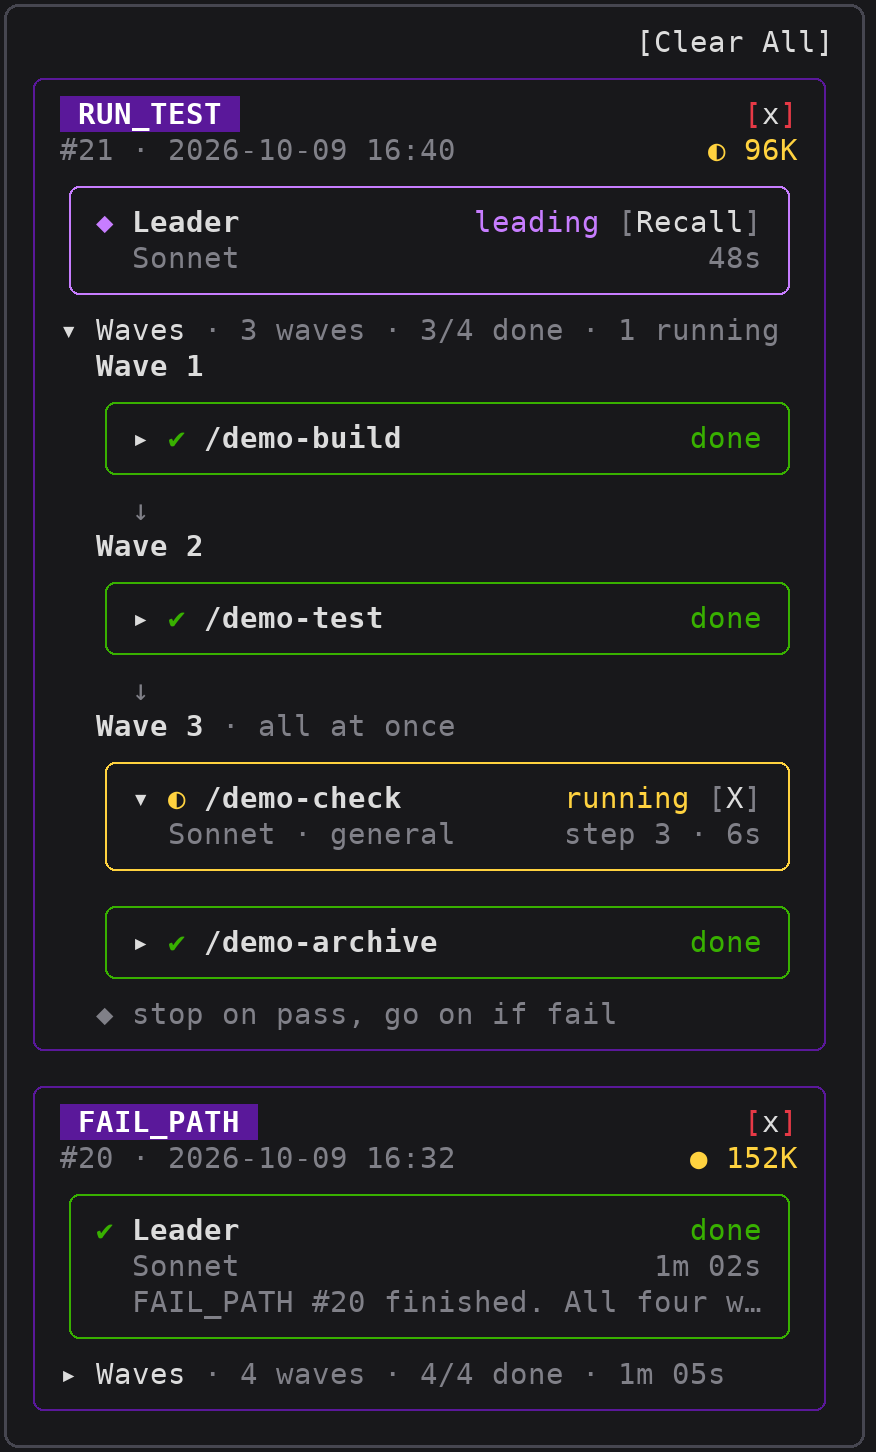
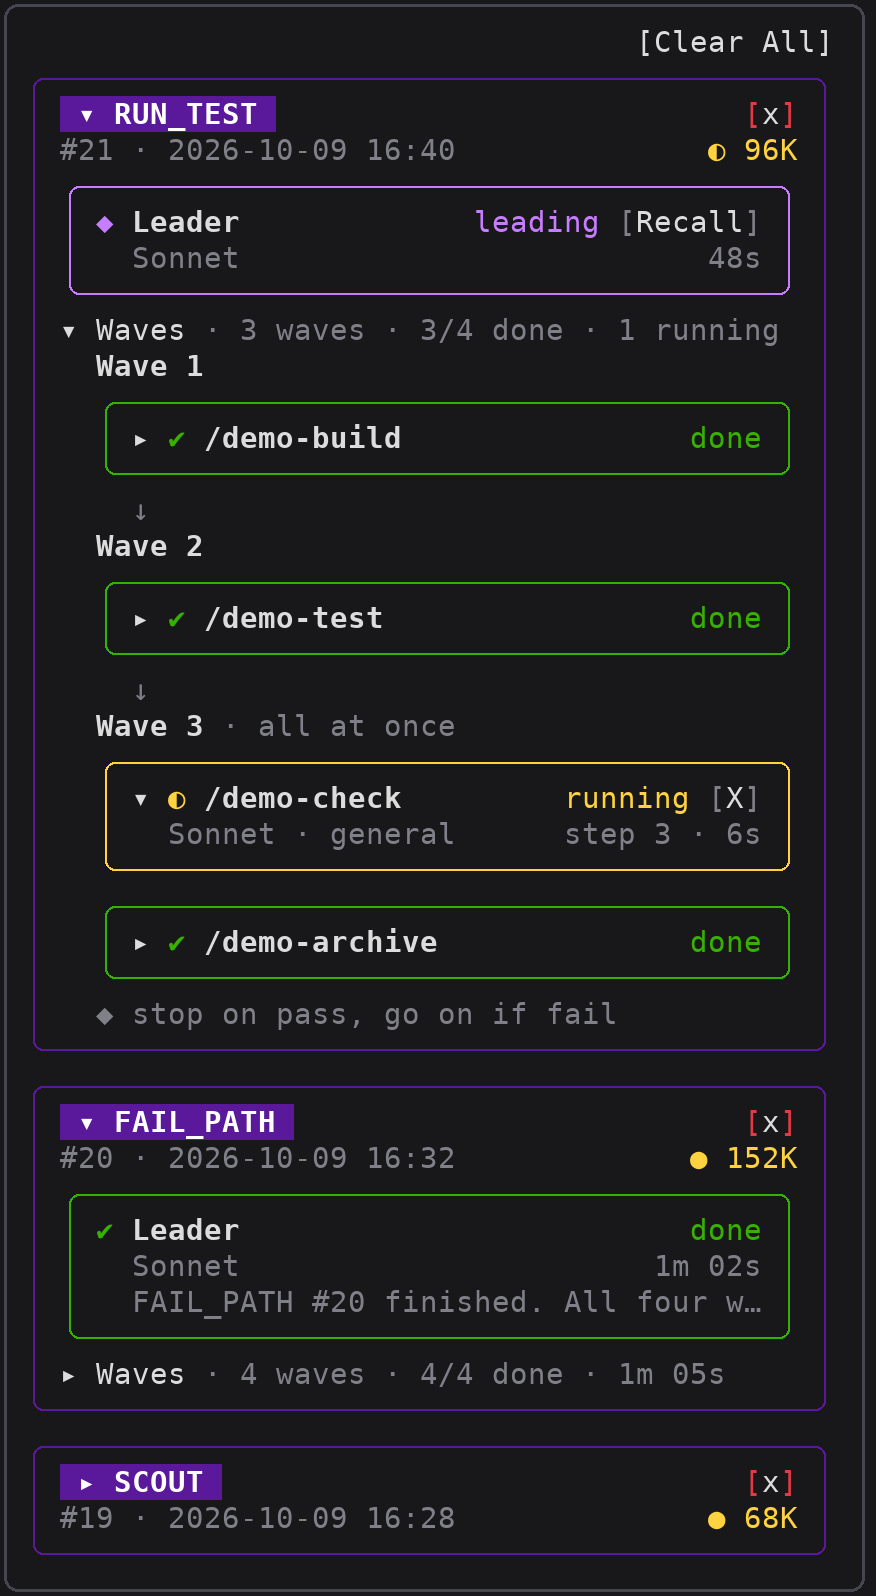
Dungeon: the combo's name folds a mission to its first two lines

diff --git a/hooks/register.tsx b/hooks/register.tsx
@@ -2651,6 +2651,9 @@ export const register: Register = on => {
       const ended = m.endedAt !== undefined
       const took = m.begunAt !== undefined && ended ? elapsed(m.endedAt! - m.begunAt) : ''
       const spent = tokensOf([m])
+      // The combo's name folds the mission to its first two lines, and opens it again.
+      const foldKey = `mission-${m.id}-fold`
+      const folded = open.includes(foldKey)
       const wavesKey = `mission-${m.id}-waves`
       const wavesOpen = open.includes(wavesKey)
       const steps = m.waves.flatMap(w => w.steps)
@@ -2675,7 +2678,13 @@ export const register: Register = on => {
               sent, how it stands, how long, and its subagents' tokens. */}
           <Box flexDirection="row" justifyContent="space-between">
             <Box flexDirection="row" backgroundColor={COMBO.banner} paddingX={1} flexShrink={1} minWidth={0}>
-              <Text bold color={COMBO.text} wrap="truncate-end">{m.combo}</Text>
+              <Button
+                key={foldKey}
+                label={`${folded ? '▸' : '▾'} ${m.combo}`}
+                plain
+                hover={{ scope: foldKey, color: COMBO.text, bold: true }}
+                onPress={() => update($, squadOpenAtom, l => (l.includes(foldKey) ? l.filter(k => k !== foldKey) : [...l, foldKey]))}
+              />
             </Box>
             <Box flexDirection="row" flexShrink={0}>
               <Text color={hex(STOP_RED)}>[</Text>
@@ -2692,11 +2701,11 @@ export const register: Register = on => {
             </Text>
           </Box>
           {/* The subagent leading it, and in the end its report. */}
-          {m.leader && runBlock(`mission-${m.id}-lead`, 'Leader', modelInfo(m.leader.model ?? '').name, '', m.leader, ended, inner, true, m.id)}
+          {!folded && m.leader && runBlock(`mission-${m.id}-lead`, 'Leader', modelInfo(m.leader.model ?? '').name, '', m.leader, ended, inner, true, m.id)}
           {/* Waves, closed to one line (how far its steps have got) until
               pressed open: each wave, its step cards and its condition, and
               the subagents no step names. */}
-          <Box flexDirection="row">
+          {!folded && (<Box flexDirection="row">
             <Button
               key={`mission-${m.id}-waves`}
               label={`${wavesOpen ? '▾' : '▸'} Waves`}
@@ -2704,8 +2713,8 @@ export const register: Register = on => {
               onPress={() => update($, squadOpenAtom, l => (l.includes(wavesKey) ? l.filter(k => k !== wavesKey) : [...l, wavesKey]))}
             />
             <Text dimColor wrap="truncate-end">{` · ${progress}`}</Text>
-          </Box>
-          {wavesOpen && (
+          </Box>)}
+          {!folded && wavesOpen && (
             <Box flexDirection="column" paddingLeft={2}>
               {m.waves.map((w, wi) => (
                 <Box key={`mission-${m.id}-w${w.n}`} flexDirection="column">

diff --git a/hooks/squad.test.ts b/hooks/squad.test.ts
@@ -294,11 +294,19 @@ test('Dungeon: a pressed combo sends its leader, opens its tab and follows each 
 
   const squad = await $.ui.mount({ ...SQUAD, surface: 'terminal' })
   const text = async (t: string | RegExp) => squad.find({ type: 'Text', text: t })
-  expect(await text('Run-Test')).toBeDefined()
+  expect((await squad.find({ key: 'mission-1-fold' }))?.text).toBe('▾ Run-Test')
   expect(await text('#1 · 1970-01-01 00:00')).toBeDefined()
   expect(await text('0')).toBeDefined()
   expect(await text('Leader')).toBeDefined()
   expect(await text('  Sonnet')).toBeDefined()
+  // The combo's name folds the mission to its first two lines, and opens it again.
+  await squad.press({ key: 'mission-1-fold' })
+  expect((await squad.find({ key: 'mission-1-fold' }))?.text).toBe('▸ Run-Test')
+  expect(await text('#1 · 1970-01-01 00:00')).toBeDefined()
+  expect(await text('Leader')).toBeUndefined()
+  expect(await squad.find({ key: 'mission-1-waves' })).toBeUndefined()
+  await squad.press({ key: 'mission-1-fold' })
+  expect(await text('Leader')).toBeDefined()
   // The waves are closed to how far their steps have got, until pressed open.
   expect(await text(' · 2 waves · 0/3 done')).toBeDefined()
   expect(await text('/demo-build')).toBeUndefined()
@@ -373,7 +381,7 @@ test('Dungeon: a pressed combo sends its leader, opens its tab and follows each 
   expect(await squad.find({ key: 'squad-clear' })).toBeDefined()
   expect(await squad.find({ key: 'mission-x-1' })).toBeDefined()
   await squad.press({ key: 'mission-x-1' })
-  expect(await text('Run-Test')).toBeUndefined()
+  expect(await squad.find({ key: 'mission-1-fold' })).toBeUndefined()
   expect(await text(/No Party Combo sent yet/)).toBeDefined()
   expect(await squad.find({ key: 'squad-clear' })).toBeUndefined()
   await squad.unmount()

diff --git a/tools/pictures.py b/tools/pictures.py
@@ -298,7 +298,7 @@ def card(fold, mark, color, title, word, extra=(), second=None):
 def dungeon_rows():
     """Dungeon's tab, as wide as DUNGEON_W: a mission running with its waves
     open, and one done, closed to a glance."""
-    banner = lambda name: [run(f' {name} ', (255, 255, 255), True, PURPLE)]
+    banner = lambda name, fold='▾': [run(f' {fold} {name} ', (255, 255, 255), True, PURPLE)]
     x = [run('[', STOP), run('x'), run(']', STOP)]
     btn = lambda label: [run(' [', DIM), run(label), run(']', DIM)]
     running = ('frame', [
@@ -331,7 +331,11 @@ def dungeon_rows():
         ], GREEN),
         [run('▸ Waves'), run(' · 4 waves · 4/4 done · 1m 05s', DIM)],
     ], PURPLE)
-    return [(('split', [], [run('[Clear All]')]), None), (running, None), (done, None)]
+    folded = ('frame', [
+        ('split', banner('SCOUT', '▸'), x),
+        ('split', [run('#19 · 2026-10-09 16:28', DIM)], [run('● ', GOLD, True), run('68K', GOLD)]),
+    ], PURPLE)
+    return [(('split', [], [run('[Clear All]')]), None), (running, None), (done, None), (folded, None)]
 
 
 DUNGEON_W = 46  # Dungeon is a tab of its own, wider than the pane

diff --git a/README.md b/README.md
@@ -110,13 +110,13 @@ A saved combo shows in the Skill Box under **Party Combo**; pressed, it runs wit
 
 ## Dungeon
 
-<img src="docs/dungeon.png" width="420" alt="Dungeon: [Clear All] at the top; RUN_TEST #21 running, a half-turned gold coin and 96K, its Leader card leading with [Recall], its waves open: /demo-build and /demo-test done, /demo-check running with [X] and opened to Sonnet · general, /demo-archive done, then its condition; below it FAIL_PATH #20 done, a gold coin and 152K, its Leader card done with its report, its waves closed to 4/4 done · 1m 05s">
+<img src="docs/dungeon.png" width="420" alt="Dungeon: [Clear All] at the top; RUN_TEST #21 running, a half-turned gold coin and 96K, its Leader card leading with [Recall], its waves open: /demo-build and /demo-test done, /demo-check running with [X] and opened to Sonnet · general, /demo-archive done, then its condition; below it FAIL_PATH #20 done, a gold coin and 152K, its Leader card done with its report, its waves closed to 4/4 done · 1m 05s; last SCOUT #19 folded to its name, number, time and 68K">
 
 A tab of its own that opens when a Party Combo is pressed, and follows each press as a mission until its leader has led it to the end. At a glance a mission is its line, its leader's card and one line for its waves; open the waves, then a step's card, for the detail. Each press gets a number, `#1`, `#2`, …; its prompt and each step's tag carry it (`[Run-Test #3 2.1]`), so combos pressed close together, or one combo pressed twice, keep their subagents apart.
 
 | What | Shows |
 | --- | --- |
-| The purple banner | The combo's name; the red `[x]` at its right takes the mission off the tab. |
+| `▾ Name` (the purple banner) | The combo's name: pressed, it folds the mission to its first two lines (`▸`), and opens it again. The red `[x]` at its right takes the mission off the tab. |
 | `#3 · 2026-10-09 15:21`  `● 124K` | The mission's number and when it was sent; at the right, after a gold coin that turns while the mission runs, the tokens the whole combo has used (its leader's and every subagent's requests: taken in, cache reads included, and given out). |
 | `◆ Leader  leading [Recall]` | The subagent leading the mission, `leading` until the mission ends (between its turns as well), then its report of each step. The mission ends with it. `[Recall]` (red under the pointer) calls the whole mission back: the leader first, then every subagent it sent out that still runs (TaskStop, so Claude Code may ask your permission first). |
 | `▸ Waves · 2 waves · 2/3 done · 1m 05s` | The waves, closed to how far their steps have got until pressed open (`▾`): how many are done, running, failed or stopped, `queued` before its leader starts, and once the mission ends how long it took (and `stopped` or `error` if so). |
